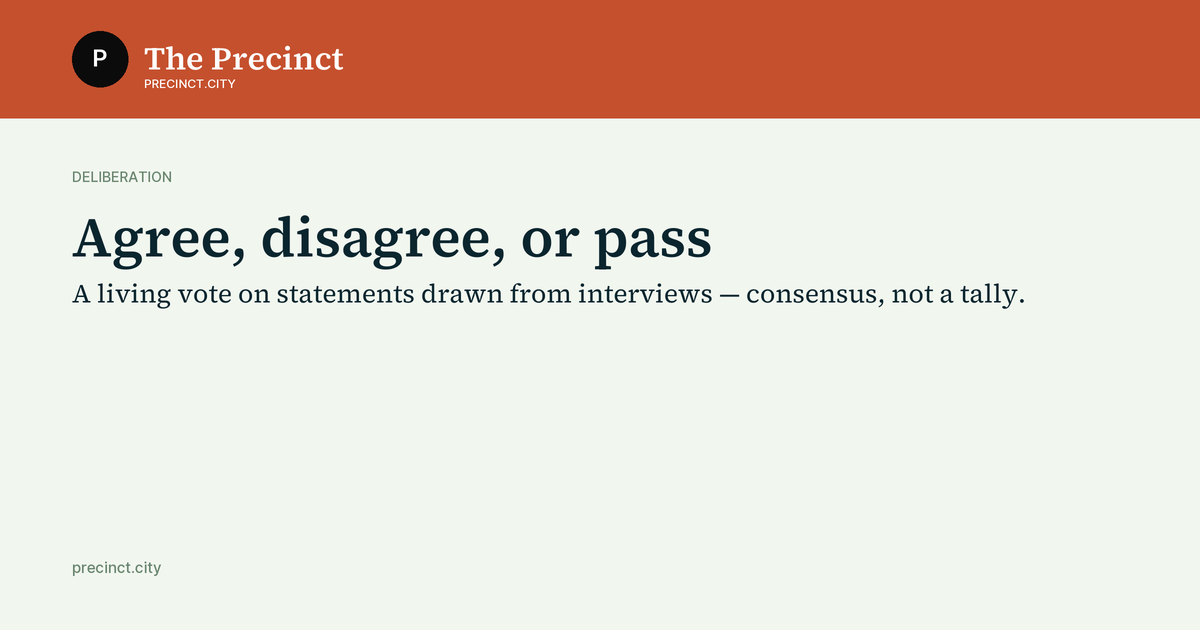
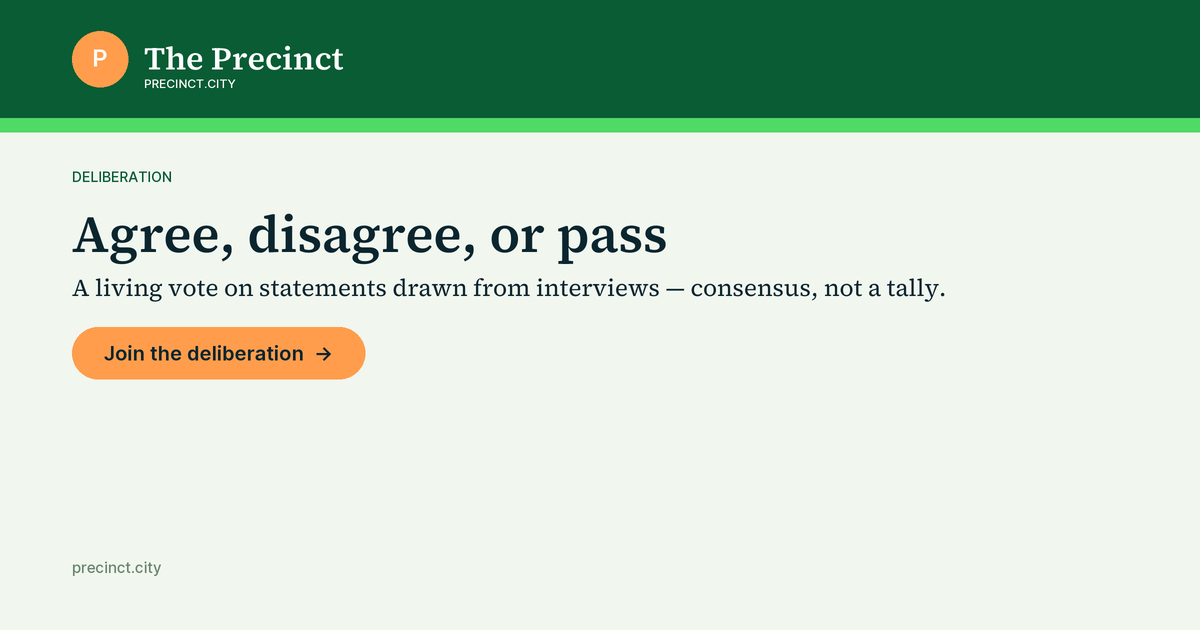
Update SEO metadata and branding for The Precinct
- Changed the title and description in index.html to better reflect the purpose of The Precinct.
- Updated Open Graph and Twitter metadata for improved social sharing.
- Refined default SEO values in seo.ts to align with new branding.
- Adjusted image alt text for better accessibility and context.
- Enhanced site.webmanifest description for clarity.

This commit enhances the overall SEO strategy and aligns the branding with the new messaging.

diff --git a/index.html b/index.html
@@ -3,10 +3,10 @@
   <head>
     <meta charset="UTF-8" />
     <meta name="viewport" content="width=device-width, initial-scale=1, viewport-fit=cover" />
-    <title>The Precinct · precinct.city</title>
+    <title>The Precinct · Structured conversations for better decisions</title>
     <meta
       name="description"
-      content="Structured conversations for better decisions. The Precinct helps governments, communities, and organisations run thoughtful consultations and deliberations."
+      content="The Precinct helps governments, communities, and organisations run structured consultations. Start a conversation."
     />
     <link rel="canonical" href="https://precinct.city/" />
     <link rel="icon" href="/favicon.svg" type="image/svg+xml" />
@@ -18,23 +18,23 @@
     <meta property="og:site_name" content="The Precinct" />
     <meta property="og:type" content="website" />
     <meta property="og:locale" content="en" />
-    <meta property="og:title" content="The Precinct · precinct.city" />
+    <meta property="og:title" content="The Precinct · Structured conversations for better decisions" />
     <meta
       property="og:description"
-      content="Structured conversations for better decisions. The Precinct helps governments, communities, and organisations run thoughtful consultations and deliberations."
+      content="The Precinct helps governments, communities, and organisations run structured consultations. Start a conversation."
     />
     <meta property="og:url" content="https://precinct.city/" />
     <meta property="og:image" content="https://precinct.city/og/home.png" />
-    <meta property="og:image:alt" content="The Precinct — structured conversations for better decisions" />
+    <meta property="og:image:alt" content="The Precinct — structured conversations for better decisions. Start a conversation." />
     <meta property="og:image:type" content="image/png" />
     <meta property="og:image:width" content="1200" />
     <meta property="og:image:height" content="630" />
 
     <meta name="twitter:card" content="summary_large_image" />
-    <meta name="twitter:title" content="The Precinct · precinct.city" />
+    <meta name="twitter:title" content="The Precinct · Structured conversations for better decisions" />
     <meta
       name="twitter:description"
-      content="Structured conversations for better decisions. Consultations and deliberations for governments, communities, and organisations."
+      content="The Precinct helps governments, communities, and organisations run structured consultations. Start a conversation."
     />
     <meta name="twitter:image" content="https://precinct.city/og/home.png" />
     <link rel="preconnect" href="https://fonts.googleapis.com">

diff --git a/lib/seo.ts b/lib/seo.ts
@@ -1,17 +1,22 @@
-import { BRAND_DOMAIN, BRAND_NAME } from './brand';
+import { BRAND_DOMAIN, BRAND_NAME, PRECINCT_HERO } from './brand';
 import { CHAPTER_BY_ID, SECTORS, isChapterId, parseDemoParam, parsePathKind, type ChapterId, type DemoKind } from './chapters';
 import type { ViewMode } from '../types';
 
 export const SITE_ORIGIN = `https://${BRAND_DOMAIN}`;
 
+/** 50–60 characters for SERP; includes the brand and the thesis. */
+export const DEFAULT_TITLE = `${BRAND_NAME} · ${PRECINCT_HERO.title}`;
+
+/** ~125 characters so social previews do not truncate on mobile. */
 export const DEFAULT_DESCRIPTION =
-  'Structured conversations for better decisions. The Precinct helps governments, communities, and organisations run thoughtful consultations and deliberations.';
+  'The Precinct helps governments, communities, and organisations run structured consultations. Start a conversation.';
 
 export type SeoPage = {
   title: string;
   description: string;
   image: string;
   path: string;
+  imageAlt?: string;
 };
 
 const OG = {
@@ -24,10 +29,11 @@ const OG = {
 } as const;
 
 const HOME: SeoPage = {
-  title: `${BRAND_NAME} · ${BRAND_DOMAIN}`,
+  title: DEFAULT_TITLE,
   description: DEFAULT_DESCRIPTION,
   image: OG.home,
   path: '/',
+  imageAlt: `${PRECINCT_HERO.title}. Start a conversation on ${BRAND_NAME}.`,
 };
 
 export function seoFromSearch(search: string): SeoPage {
@@ -155,7 +161,7 @@ export function applyPageMeta(page: SeoPage, origin = typeof window !== 'undefin
     ['property', 'og:description', page.description],
     ['property', 'og:url', url],
     ['property', 'og:image', image],
-    ['property', 'og:image:alt', page.title],
+    ['property', 'og:image:alt', page.imageAlt ?? page.title],
     ['name', 'twitter:title', page.title],
     ['name', 'twitter:description', page.description],
     ['name', 'twitter:image', image],

diff --git a/vite.config.ts b/vite.config.ts
@@ -32,7 +32,7 @@ export function patchShareHtml(html: string, page: SeoPage) {
   next = setMeta(next, 'property', 'og:description', page.description);
   next = setMeta(next, 'property', 'og:url', url);
   next = setMeta(next, 'property', 'og:image', image);
-  next = setMeta(next, 'property', 'og:image:alt', page.title);
+  next = setMeta(next, 'property', 'og:image:alt', page.imageAlt ?? page.title);
   next = setMeta(next, 'name', 'twitter:title', page.title);
   next = setMeta(next, 'name', 'twitter:description', page.description);
   next = setMeta(next, 'name', 'twitter:image', image);

diff --git a/scripts/render-og.py b/scripts/render-og.py
@@ -4,6 +4,7 @@
 from __future__ import annotations
 
 from pathlib import Path
+from shutil import copyfile
 
 from PIL import Image, ImageDraw, ImageFont
 
@@ -11,17 +12,23 @@ ROOT = Path(__file__).resolve().parents[1]
 OUT = ROOT / "public" / "og"
 FONTS = Path.home() / "Library" / "Fonts"
 
-EMBER = (197, 80, 45)  # ember-500 — landing hero
+# Site tokens — green, cream/white, orange
+FOREST = (9, 92, 52)  # leaf-700
+LEAF = (79, 217, 101)  # leaf-400
+LEAF_DEEP = (63, 174, 81)  # leaf-500
+EMBER = (255, 157, 76)  # ember-400
 CREAM = (241, 246, 239)
 INK = (11, 37, 46)
 INK_950 = (11, 11, 11)
+MOSS = (107, 135, 112)
 WHITE = (255, 255, 255)
 WHITE_70 = (255, 255, 255, 178)
-WHITE_90 = (255, 255, 255, 230)
 
 W, H = 1200, 630
 SQ = 1200
 SCALE = 2
+HEADER = 118
+STRIPE = 14
 
 
 def font(path: Path, size: int, axes: list[float]) -> ImageFont.FreeTypeFont:
@@ -63,7 +70,7 @@ def down(im: Image.Image, w: int, h: int) -> Image.Image:
     return im.resize((w, h), Image.Resampling.LANCZOS)
 
 
-def mark(draw: ImageDraw.ImageDraw, x: int, y: int, r: int, fill=INK_950, letter=WHITE) -> None:
+def mark(draw: ImageDraw.ImageDraw, x: int, y: int, r: int, fill=EMBER, letter=WHITE) -> None:
     draw.ellipse((x, y, x + r, y + r), fill=fill)
     fnt = sans(int(r * 0.42), 600)
     text = "P"
@@ -84,39 +91,75 @@ def save(im: Image.Image, name: str, size: tuple[int, int]) -> None:
     print(f"wrote {path.relative_to(ROOT)} ({path.stat().st_size // 1024}kb)")
 
 
-def paint_home(square: bool = False) -> Image.Image:
-    w, h = (SQ, SQ) if square else (W, H)
-    im = Image.new("RGB", (w * SCALE, h * SCALE), EMBER)
-    d = ImageDraw.Draw(im, "RGBA")
-    s = SCALE
-    pad = 72 * s
-    mark(d, pad, pad, 56 * s, fill=INK_950, letter=WHITE)
-    d.text((pad + 72 * s, pad + 4 * s), "The Precinct", font=serif(34 * s, 600, 12), fill=WHITE)
+def paint_chrome(d: ImageDraw.ImageDraw, w: int, s: int, pad: int) -> None:
+    d.rectangle((0, 0, w * s, HEADER * s), fill=FOREST)
+    d.rectangle((0, HEADER * s, w * s, (HEADER + STRIPE) * s), fill=LEAF)
+    mark(d, pad, 31 * s, 56 * s, fill=EMBER, letter=WHITE)
+    d.text((pad + 72 * s, 36 * s), "The Precinct", font=serif(32 * s, 600, 12), fill=WHITE)
     d.text(
-        (pad + 72 * s, pad + 44 * s),
+        (pad + 72 * s, 76 * s),
         "PRECINCT.CITY",
-        font=sans(13 * s, 500),
-        fill=(255, 255, 255, 185),
+        font=sans(12 * s, 500),
+        fill=WHITE_70,
     )
 
-    headline = "Elicit what people actually hold"
-    hf = serif(62 * s if not square else 72 * s, 600, 14)
-    max_w = w * s - pad * 2
-    lines = wrap(d, headline, hf, max_w)
-    y = (260 if not square else 380) * s
-    for line in lines:
-        d.text((pad, y), line, font=hf, fill=WHITE)
-        y += int(hf.size * 1.12)
 
-    sub = "Views sit below a first answer — for civic groups, government, and enterprise."
-    sf = serif(26 * s, 400, 12)
-    y += 18 * s
+def paint_cta(
+    d: ImageDraw.ImageDraw,
+    x: int,
+    y: int,
+    label: str,
+    s: int,
+) -> int:
+    fnt = sans(20 * s, 600)
+    bbox = d.textbbox((0, 0), label, font=fnt)
+    tw, th = bbox[2] - bbox[0], bbox[3] - bbox[1]
+    pad_x, pad_y = 32 * s, 18 * s
+    bw, bh = tw + pad_x * 2, th + pad_y * 2
+    d.rounded_rectangle((x, y, x + bw, y + bh), radius=bh / 2, fill=EMBER)
+    d.text((x + pad_x - bbox[0], y + pad_y - bbox[1]), label, font=fnt, fill=INK)
+    return y + bh
+
+
+def paint_home(square: bool = False) -> Image.Image:
+    w, h = (SQ, SQ) if square else (W, H)
+    im = Image.new("RGB", (w * SCALE, h * SCALE), CREAM)
+    d = ImageDraw.Draw(im, "RGBA")
+    s = SCALE
+    rail = int((400 if not square else 360) * s)
+    d.rectangle((0, 0, rail, h * s), fill=FOREST)
+    d.rectangle((rail, 0, rail + 14 * s, h * s), fill=LEAF)
+
+    pad_l = 48 * s
+    mark(d, pad_l, 56 * s, 72 * s, fill=EMBER, letter=WHITE)
+    d.text((pad_l, 148 * s), "The Precinct", font=serif(28 * s, 600, 12), fill=WHITE)
+    d.text((pad_l, 188 * s), "PRECINCT.CITY", font=sans(13 * s, 500), fill=WHITE_70)
+    d.text(
+        (pad_l, h * s - 168 * s),
+        "Deliberate\nSurvey\nElicit\nBridge",
+        font=sans(15 * s, 500),
+        fill=(255, 255, 255, 165),
+        spacing=10 * s,
+    )
+
+    pad = 56 * s
+    x = rail + 40 * s
+    max_w = w * s - x - pad
+    hf = serif(52 * s if not square else 64 * s, 600, 14)
+    y = (120 if not square else 200) * s
+    for line in wrap(d, "Structured conversations for better decisions", hf, max_w):
+        d.text((x, y), line, font=hf, fill=INK)
+        y += int(hf.size * 1.08)
+
+    sub = "For governments, communities, and organisations."
+    sf = serif(24 * s, 400, 12)
+    y += 22 * s
     for line in wrap(d, sub, sf, max_w):
-        d.text((pad, y), line, font=sf, fill=(255, 255, 255, 230))
+        d.text((x, y), line, font=sf, fill=INK)
         y += int(sf.size * 1.35)
 
-    wards = "Deliberate   ·   Survey   ·   Elicit   ·   Bridge"
-    d.text((pad, h * s - pad - 8 * s), wards, font=sans(16 * s, 500), fill=(255, 255, 255, 200))
+    y += 32 * s
+    paint_cta(d, x, y, "Start a conversation  →", s)
     return im
 
 
@@ -125,39 +168,35 @@ def paint_split(
     title: str,
     lead: str,
     foot: str,
+    cta: str,
 ) -> Image.Image:
     im = Image.new("RGB", (W * SCALE, H * SCALE), CREAM)
     d = ImageDraw.Draw(im, "RGBA")
     s = SCALE
-    d.rectangle((0, 0, W * s, 118 * s), fill=EMBER)
     pad = 72 * s
-    mark(d, pad, 31 * s, 56 * s)
-    d.text((pad + 72 * s, 36 * s), "The Precinct", font=serif(32 * s, 600, 12), fill=WHITE)
-    d.text(
-        (pad + 72 * s, 76 * s),
-        "PRECINCT.CITY",
-        font=sans(12 * s, 500),
-        fill=(255, 255, 255, 185),
-    )
+    paint_chrome(d, W, s, pad)
 
-    d.text((pad, 168 * s), eyebrow.upper(), font=sans(14 * s, 500), fill=(107, 135, 112))
-    tf = serif(56 * s, 600, 14)
+    d.text((pad, 168 * s), eyebrow.upper(), font=sans(14 * s, 500), fill=FOREST)
+    tf = serif(52 * s, 600, 14)
     y = 198 * s
     for line in wrap(d, title, tf, W * s - pad * 2):
         d.text((pad, y), line, font=tf, fill=INK)
         y += int(tf.size * 1.1)
 
-    lf = serif(26 * s, 400, 12)
+    lf = serif(24 * s, 400, 12)
     y += 16 * s
     for line in wrap(d, lead, lf, W * s - pad * 2):
         d.text((pad, y), line, font=lf, fill=INK)
         y += int(lf.size * 1.35)
 
-    d.text((pad, H * s - pad), foot, font=sans(15 * s, 500), fill=(107, 135, 112))
+    y += 24 * s
+    paint_cta(d, pad, y, cta, s)
+
+    d.text((pad, H * s - pad), foot, font=sans(15 * s, 500), fill=MOSS)
     return im
 
 
-def paint_icon(size: int, bg=INK_950, fg=WHITE) -> Image.Image:
+def paint_icon(size: int, bg=FOREST, fg=WHITE) -> Image.Image:
     im = Image.new("RGB", (size * SCALE, size * SCALE), bg)
     d = ImageDraw.Draw(im)
     s = SCALE
@@ -182,8 +221,9 @@ def main() -> None:
         paint_split(
             "For government",
             "Precinct for Government",
-            "Infrastructure, service delivery, and the file that ward and Pretoria should read together.",
+            "Surface where residents and the department already agree.",
             "Deliberate  ·  Survey  ·  Elicit  ·  Bridge",
+            "See the government precinct  →",
         ),
         "government.png",
         (W, H),
@@ -192,8 +232,9 @@ def main() -> None:
         paint_split(
             "For development",
             "Precinct for Development",
-            "Climate, health, livelihoods — and the informal knowledge that plans usually skip.",
+            "Climate, health, livelihoods — and the knowledge plans usually skip.",
             "Deliberate  ·  Survey  ·  Elicit  ·  Bridge",
+            "See the development precinct  →",
         ),
         "development.png",
         (W, H),
@@ -202,8 +243,9 @@ def main() -> None:
         paint_split(
             "For technology",
             "Precinct for Technology",
-            "How people meet tools: trust, language, and who belongs in the governance room.",
+            "How people meet tools: trust, language, and who belongs in the room.",
             "Deliberate  ·  Survey  ·  Elicit  ·  Bridge",
+            "See the technology precinct  →",
         ),
         "technology.png",
         (W, H),
@@ -212,8 +254,9 @@ def main() -> None:
         paint_split(
             "Interview",
             "A conversation, not a form",
-            "Someone asked you to sit with The Precinct. Your answers stay with this interview.",
+            "Someone asked you to sit with The Precinct. Your answers stay here.",
             "precinct.city",
+            "Start this interview  →",
         ),
         "interview.png",
         (W, H),
@@ -224,14 +267,17 @@ def main() -> None:
             "Agree, disagree, or pass",
             "A living vote on statements drawn from interviews — consensus, not a tally.",
             "precinct.city",
+            "Join the deliberation  →",
         ),
         "deliberate.png",
         (W, H),
     )
 
-    save(paint_icon(180, bg=INK_950, fg=WHITE), "apple-touch-icon.png", (180, 180))
-    save(paint_icon(32, bg=INK_950, fg=WHITE), "favicon-32.png", (32, 32))
-    save(paint_icon(512, bg=EMBER, fg=WHITE), "icon-512.png", (512, 512))
+    save(paint_icon(180, bg=FOREST, fg=WHITE), "apple-touch-icon.png", (180, 180))
+    save(paint_icon(32, bg=FOREST, fg=WHITE), "favicon-32.png", (32, 32))
+    save(paint_icon(512, bg=LEAF_DEEP, fg=WHITE), "icon-512.png", (512, 512))
+    copyfile(OUT / "apple-touch-icon.png", ROOT / "public" / "apple-touch-icon.png")
+    print("wrote public/apple-touch-icon.png")
 
 
 if __name__ == "__main__":
